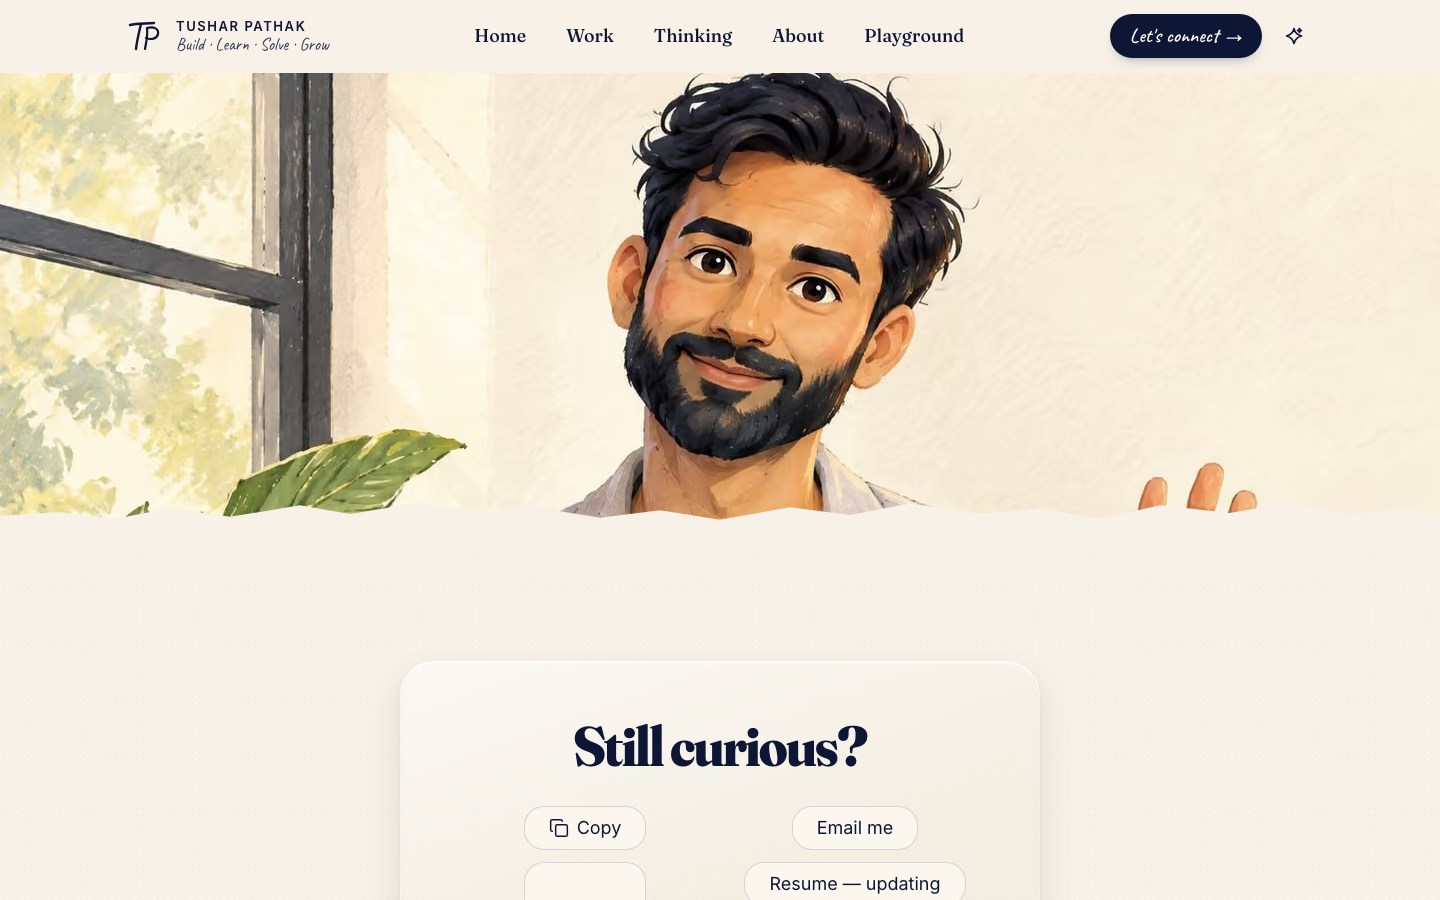
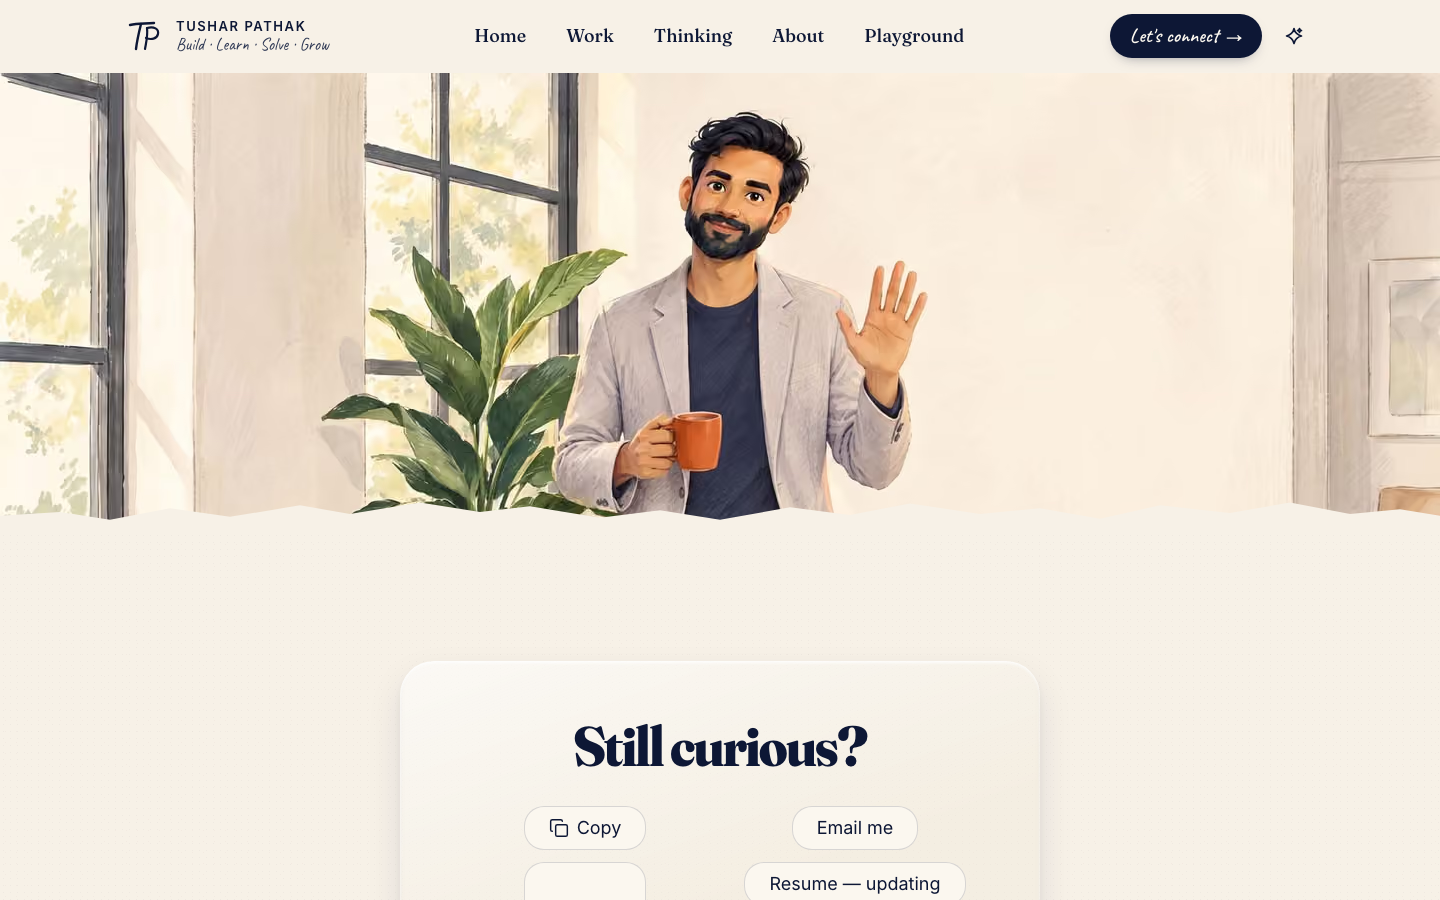
feat(contact): 16:9 outpaint of the contact scene so the wave fits the opener (TKT-95 follow-up, EXE-19)

Changed region(s): [[0.0, 0.0622, 0.6875, 0.5911], [0.7812, 0.0622, 1.0, 0.5911]]

diff --git a/app/contact/page.tsx b/app/contact/page.tsx
@@ -24,7 +24,7 @@ export default function ContactPage() {
       {/* TKT-95 scene opener (EXE-18): a portrait (1638×2048) in a wide box shows ≈ 26 % of its height
           ≥ 768 — focalY 0.2 keeps the full head, the face and the waving fingers; the mug and most of
           the palm fall below the crop (< 768 the taller 3:2 box shows ≈ 53 %: face + whole wave). */}
-      <SceneOpener id="scene-contact" focalX={0.5} focalY={0.2} priority />
+      <SceneOpener id="scene-contact" focalX={0.5} focalY={0.1} priority />
       <Section id="contact" aria-label="Contact">
         <ContactCard />
       </Section>

diff --git a/content/media/illustrations/manifest.ts b/content/media/illustrations/manifest.ts
@@ -105,8 +105,8 @@ export const ILLUSTRATIONS: readonly Illustration[] = [
     id: "scene-contact",
     kind: "scene",
     file: "scene-contact.jpg",
-    width: 1638,
-    height: 2048,
+    width: 2048,
+    height: 1143, // 16:9 outpaint of the 1638×2048 portrait so the wave fits the page banner (EXE-19)
     alt: "Illustration of Tushar standing by a window next to a tall leafy plant, a terracotta coffee mug in one hand, the other raised in a friendly wave.",
     usedOn: ["/contact"],
   },

diff --git a/content/media/illustrations/README.md b/content/media/illustrations/README.md
@@ -3,8 +3,8 @@
 One row per manifest id in `manifest.ts`. `sha256` is recorded for the two files that must stay
 byte-identical to their disk source (`hero-desk` / the shipped hero poster, E-18); it is left as
 "—" for entries where byte-exactness isn't a contract (the re-encoded scenes and the reference
-sheet are derived renditions, not byte-exact copies). No further Higgsfield spend is approved
-(Solution-PRD §12.4) — every row below reuses credits already spent at Stage 4.
+sheet are derived renditions, not byte-exact copies). Spend after Stage 4 was approved by Tushar at the hero gate: 4 credits for two outpaints (`hero-banner`,
+`scene-contact`; EXE-15, EXE-19). No further spend is approved.
 
 | id | file | kind | model | reference media ids | prompt summary | generated | credits spent | used on | sha256 |
 |---|---|---|---|---|---|---|---|---|---|
@@ -16,7 +16,7 @@ sheet are derived renditions, not byte-exact copies). No further Higgsfield spen
 | `scene-about` | `scene-about.jpg` | scene | `gpt_image_2_5` | `df5cca50-08c2-4588-9c0a-33f5fbd1a859`, `f49a95f5-6069-4131-85b7-c0283d000ee1` | Tushar from behind on a hillside path at dawn, coffee and notebook, pine forest towards a snow-capped mountain horizon | 2026-09-23 | 1 | `/about`, `/` (decorative polaroid crop) | — |
 | `scene-thinking` | `scene-thinking.jpg` | scene | `gpt_image_2_5` | `df5cca50-08c2-4588-9c0a-33f5fbd1a859`, `f49a95f5-6069-4131-85b7-c0283d000ee1` | Tushar writing in an open notebook at a wooden desk by a window — lamp, tea, stacked books, plant, sketched flow diagram | 2026-09-23 | 1 | `/thinking`, `/thinking/[slug]` | — |
 | `scene-playground` | `scene-playground.jpg` | scene | `gpt_image_2_5` | `df5cca50-08c2-4588-9c0a-33f5fbd1a859`, `f49a95f5-6069-4131-85b7-c0283d000ee1` | Tushar at a tinkering workbench holding a small cardboard prototype with wires — breadboard, tape, scissors, paper planes, tablet sketch | 2026-09-23 | 1 | `/playground`, `/` (decorative polaroid crop) | — |
-| `scene-contact` | `scene-contact.jpg` | scene | `gpt_image_2_5` | `df5cca50-08c2-4588-9c0a-33f5fbd1a859`, `f49a95f5-6069-4131-85b7-c0283d000ee1` | Tushar standing by a window next to a tall leafy plant, terracotta coffee mug, other hand raised in a friendly wave | 2026-09-23 | 1 | `/contact` | — |
+| `scene-contact` | `scene-contact.jpg` | scene | `gpt_image_2_5` + `outpaint` (Higgsfield, 16:9) | `df5cca50-08c2-4588-9c0a-33f5fbd1a859`, `f49a95f5-6069-4131-85b7-c0283d000ee1`; outpaint input media `e3cf1013-0cde-4db5-9d83-ea7c77c63779` (= `scene-contact.png`), job `9a13a67b-cc70-436e-bbad-9be192327f3b` | Tushar standing by a window next to a tall leafy plant, terracotta coffee mug, other hand raised in a friendly wave | 2026-09-23 (scene) · 2026-09-25 (outpaint) | 1 + 2 | `/contact` | — |
 | `character-sheet-b` | `reference/character-sheet-b.jpg` | reference | `gpt_image_2_5` | `df5cca50-08c2-4588-9c0a-33f5fbd1a859`, `f49a95f5-6069-4131-85b7-c0283d000ee1` | Locked character reference sheet (Variant B) — front, three-quarter and profile views | 2026-09-23 | 1 | (never rendered — Stage-8 drift check only) | — |
 
 ## Re-encoding record (S73.01)
@@ -33,7 +33,7 @@ landed under the 600 KB cap on the first pass):
 | `scene-about.jpg` | 82 | 350,979 | 2048×1360 |
 | `scene-thinking.jpg` | 82 | 516,249 | 2048×1529 |
 | `scene-playground.jpg` | 82 | 404,203 | 2048×1360 |
-| `scene-contact.jpg` | 82 | 431,849 | 1638×2048 |
+| `scene-contact.jpg` | 82 | 234,356 | 2048×1143 (16:9 outpaint, EXE-19) |
 
 The reference sheet was re-encoded from `character-ref-LOCKED.png` at quality 90 (no step-down
 needed, 536,725 bytes, well under the 1.5 MB cap, 2688×1520).
